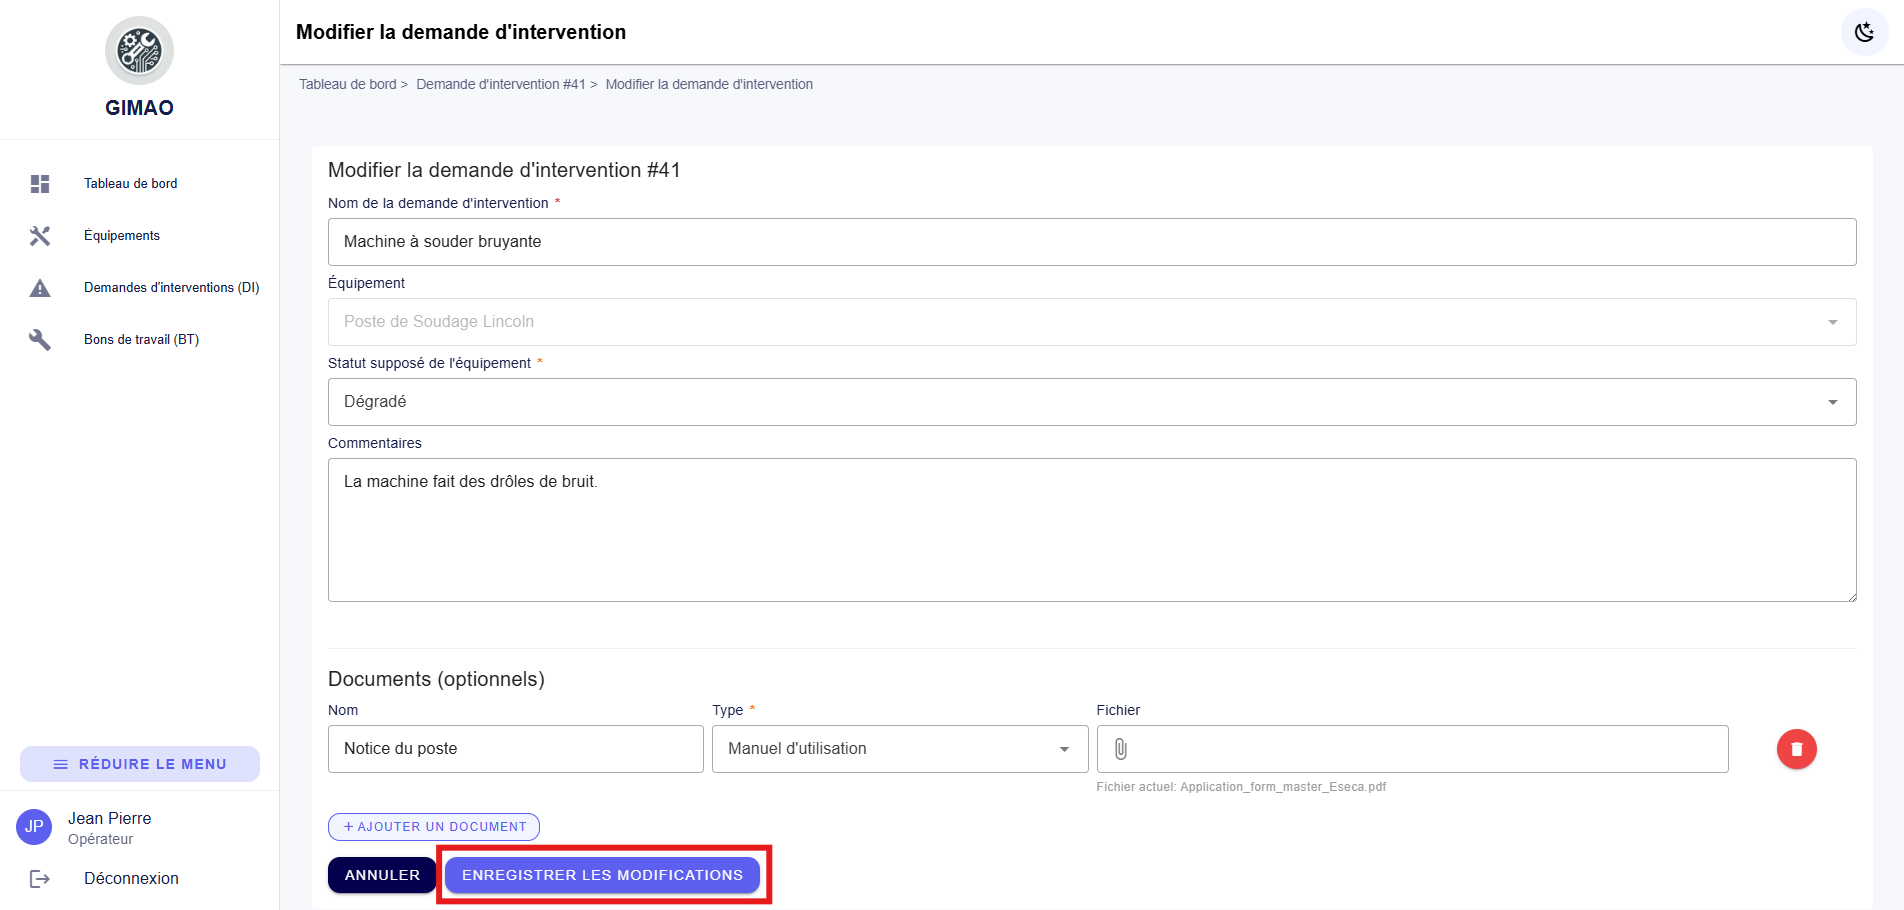
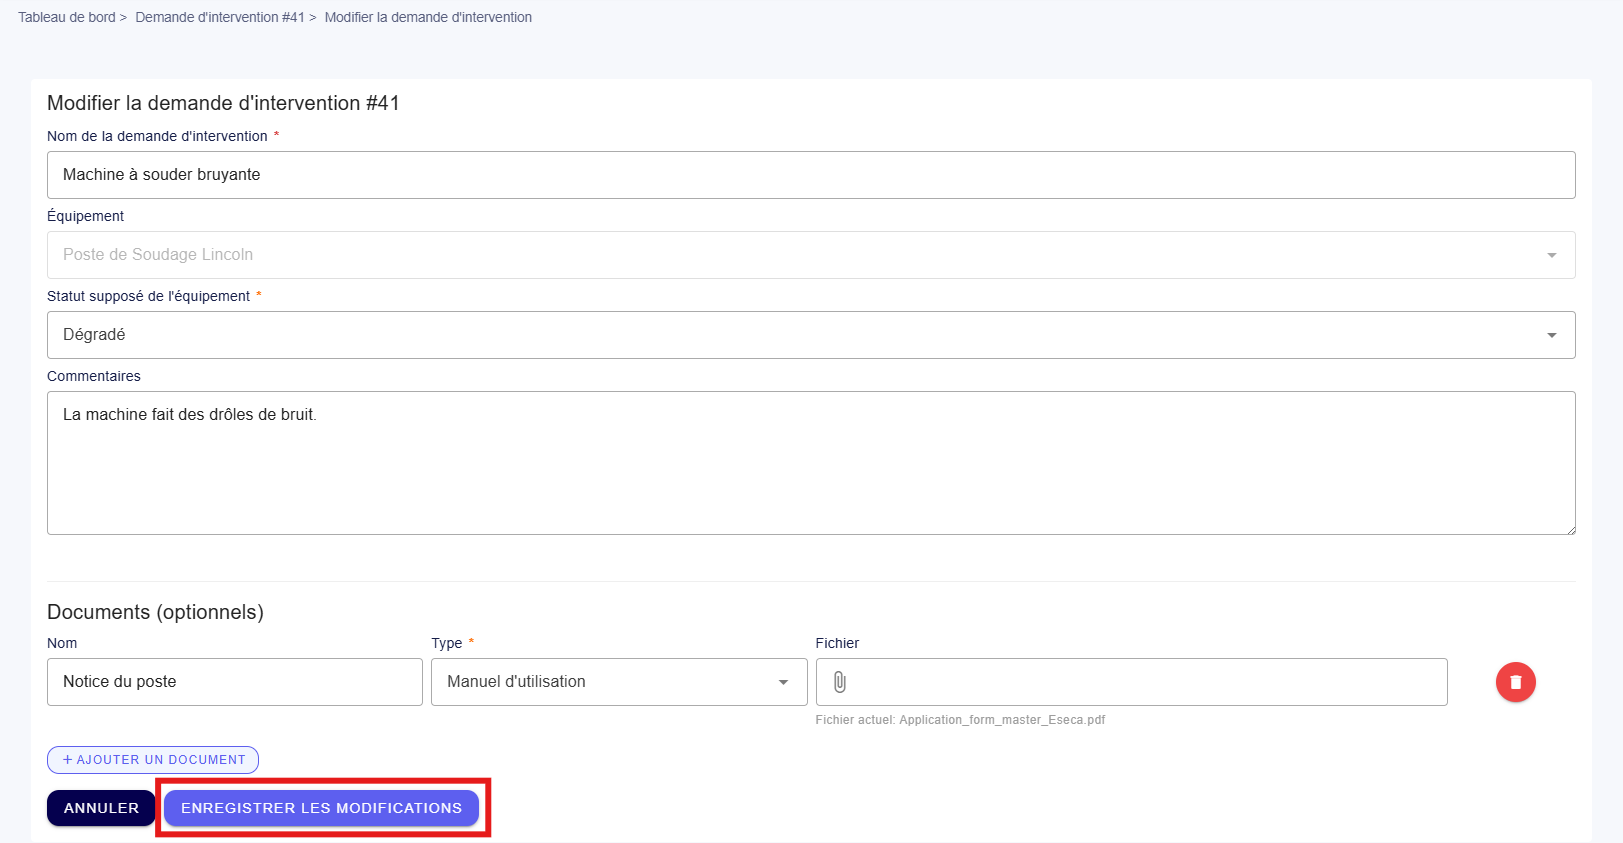
feat (notice) : partie di technicien

diff --git a/frontend/src/views/Notices/DI/ModificationDITab.vue b/frontend/src/views/Notices/DI/ModificationDITab.vue
@@ -12,7 +12,7 @@
             situé en bas à droite de l'écran.
         </div>
         <div class="text-body-2 mb-4" v-else>
-            Les Demandes d'Intervention sont consultables dans la rubrique correspondante ou depuis le tableau de bord.
+            Les Demandes d'Intervention sont consultables dans le menu correspondant.
             Si vous souhaitez en modifier une pour compléter les informations (statut, priorité, etc.), cliquez sur la ligne
             souhaitée pour accéder à sa page de détails.
 
@@ -20,13 +20,16 @@
             situé en bas à droite de l'écran.
         </div>
 
-        <ZoomImage :src="require('@/assets/images/notices/DI/detail-di-edit.png')" alt="Modification DI" /> 
+        <ZoomImage :src="require('@/assets/images/notices/DI/detail-di-edit.png')" alt="Modification DI" v-if="role === 'Opérateur'"/>
+        <ZoomImage :src="require('@/assets/images/notices/DI/detail-di-technicien-edit.png')" alt="Modification DI" v-else/> 
 
         <div class="text-body-2 mb-4">
             Après avoir effectué vos modifications, cliquez sur « Enregistrer les modifications ». Vous serez alors
             redirigé vers la page de détails mise à jour de votre DI.
         </div>
-        <ZoomImage :src="require('@/assets/images/notices/DI/modif-di.png')" alt="Modification DI" /> 
+        
+        <ZoomImage :src="require('@/assets/images/notices/DI/modif-di.png')" alt="Modification DI" v-if="role === 'Opérateur'"/> 
+        <ZoomImage :src="require('@/assets/images/notices/DI/modif-di-technicien.png')" alt="Modification DI" v-else/> 
 
     </v-container>
 </template>

diff --git a/frontend/src/views/Notices/DI/CreationDITab.vue b/frontend/src/views/Notices/DI/CreationDITab.vue
@@ -31,8 +31,15 @@
     </div>
 
     <ZoomImage
-      :src="require('@/assets/images/notices/DI/formulaire-di.png')"
+      :src="require('@/assets/images/notices/DI/creer-di.png')"
       alt="Formulaire DI"
+      v-if="role === 'Opérateur'"
+    />
+
+    <ZoomImage
+      :src="require('@/assets/images/notices/DI/creer-di-technicien.png')"
+      alt="Formulaire DI"
+      v-else
     />
 
     <div class="text-body-2 mb-4">
